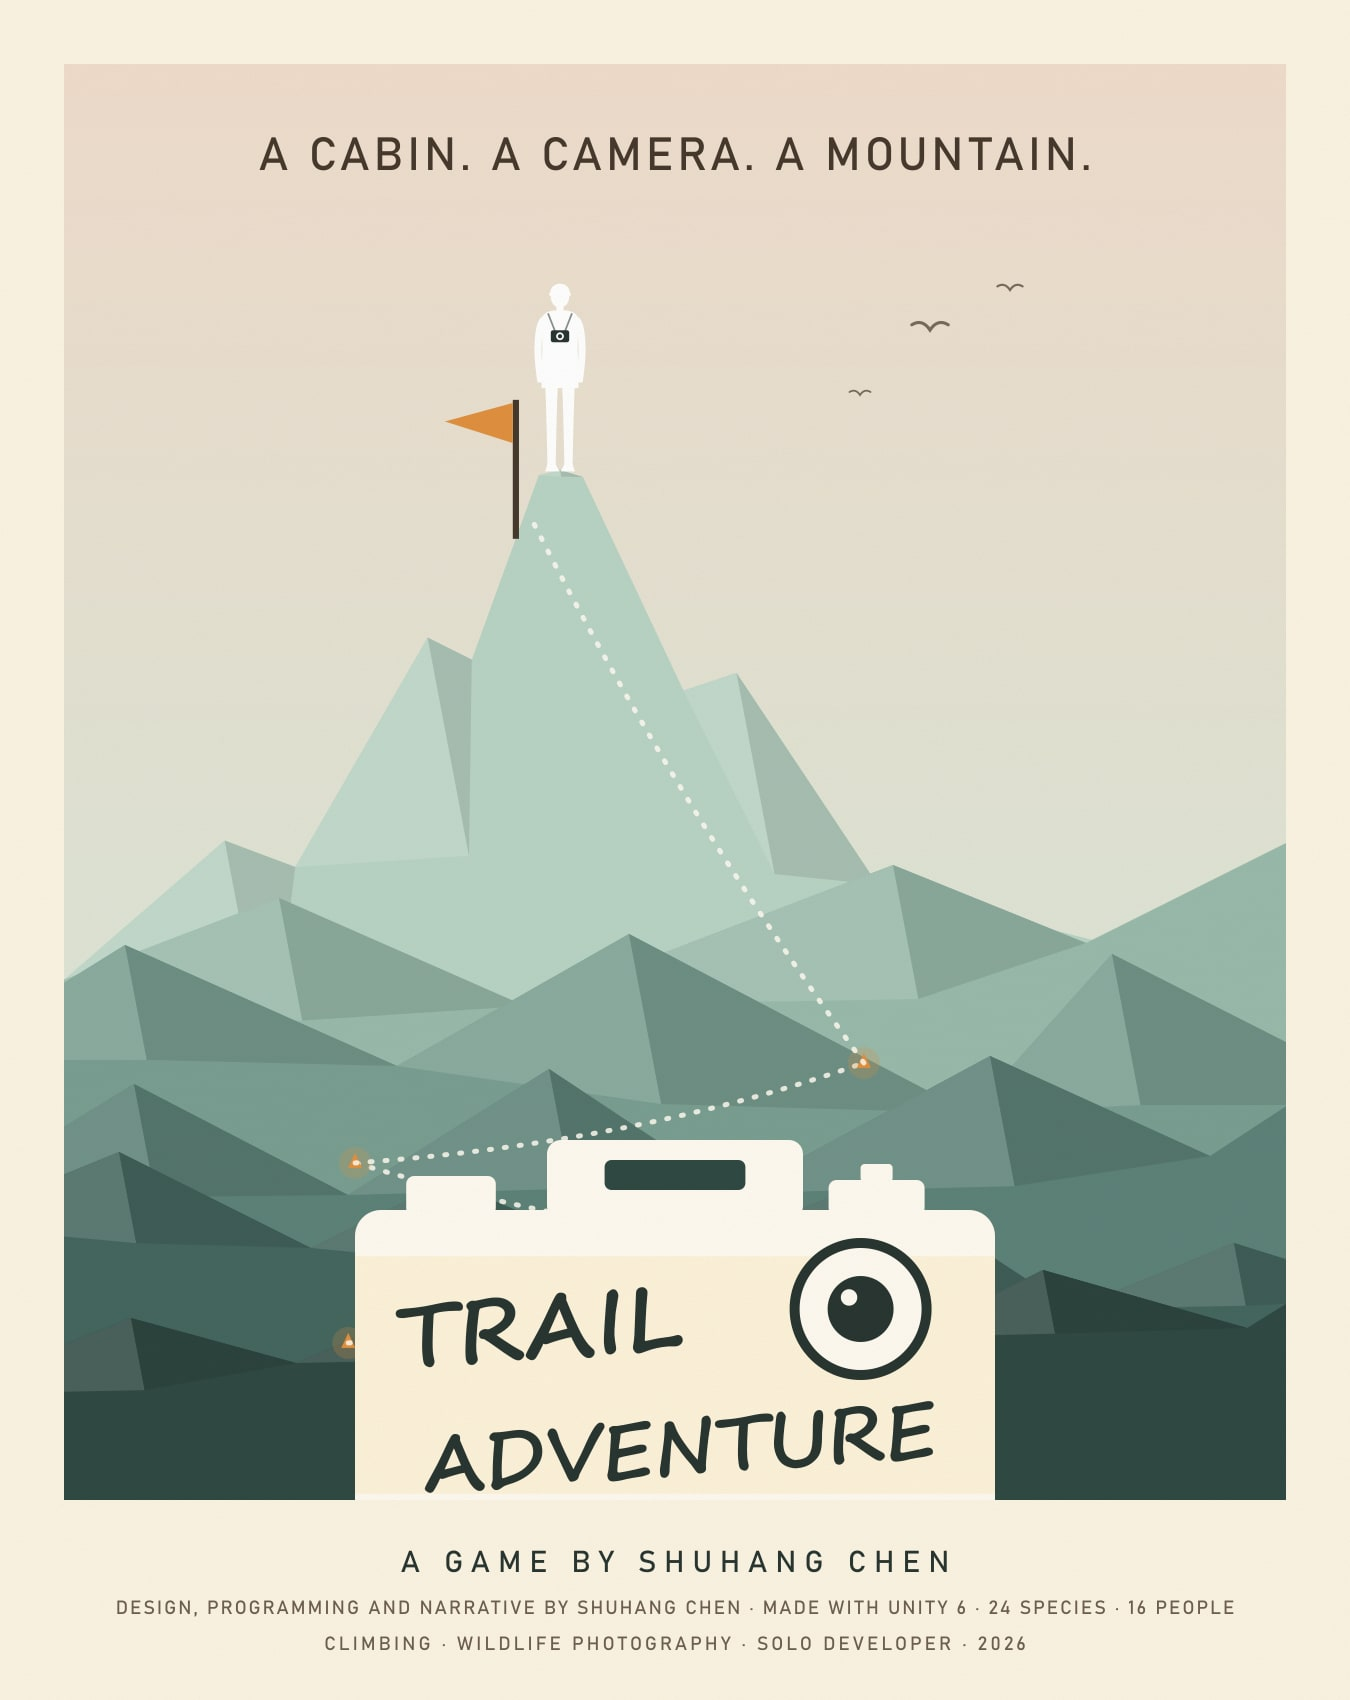
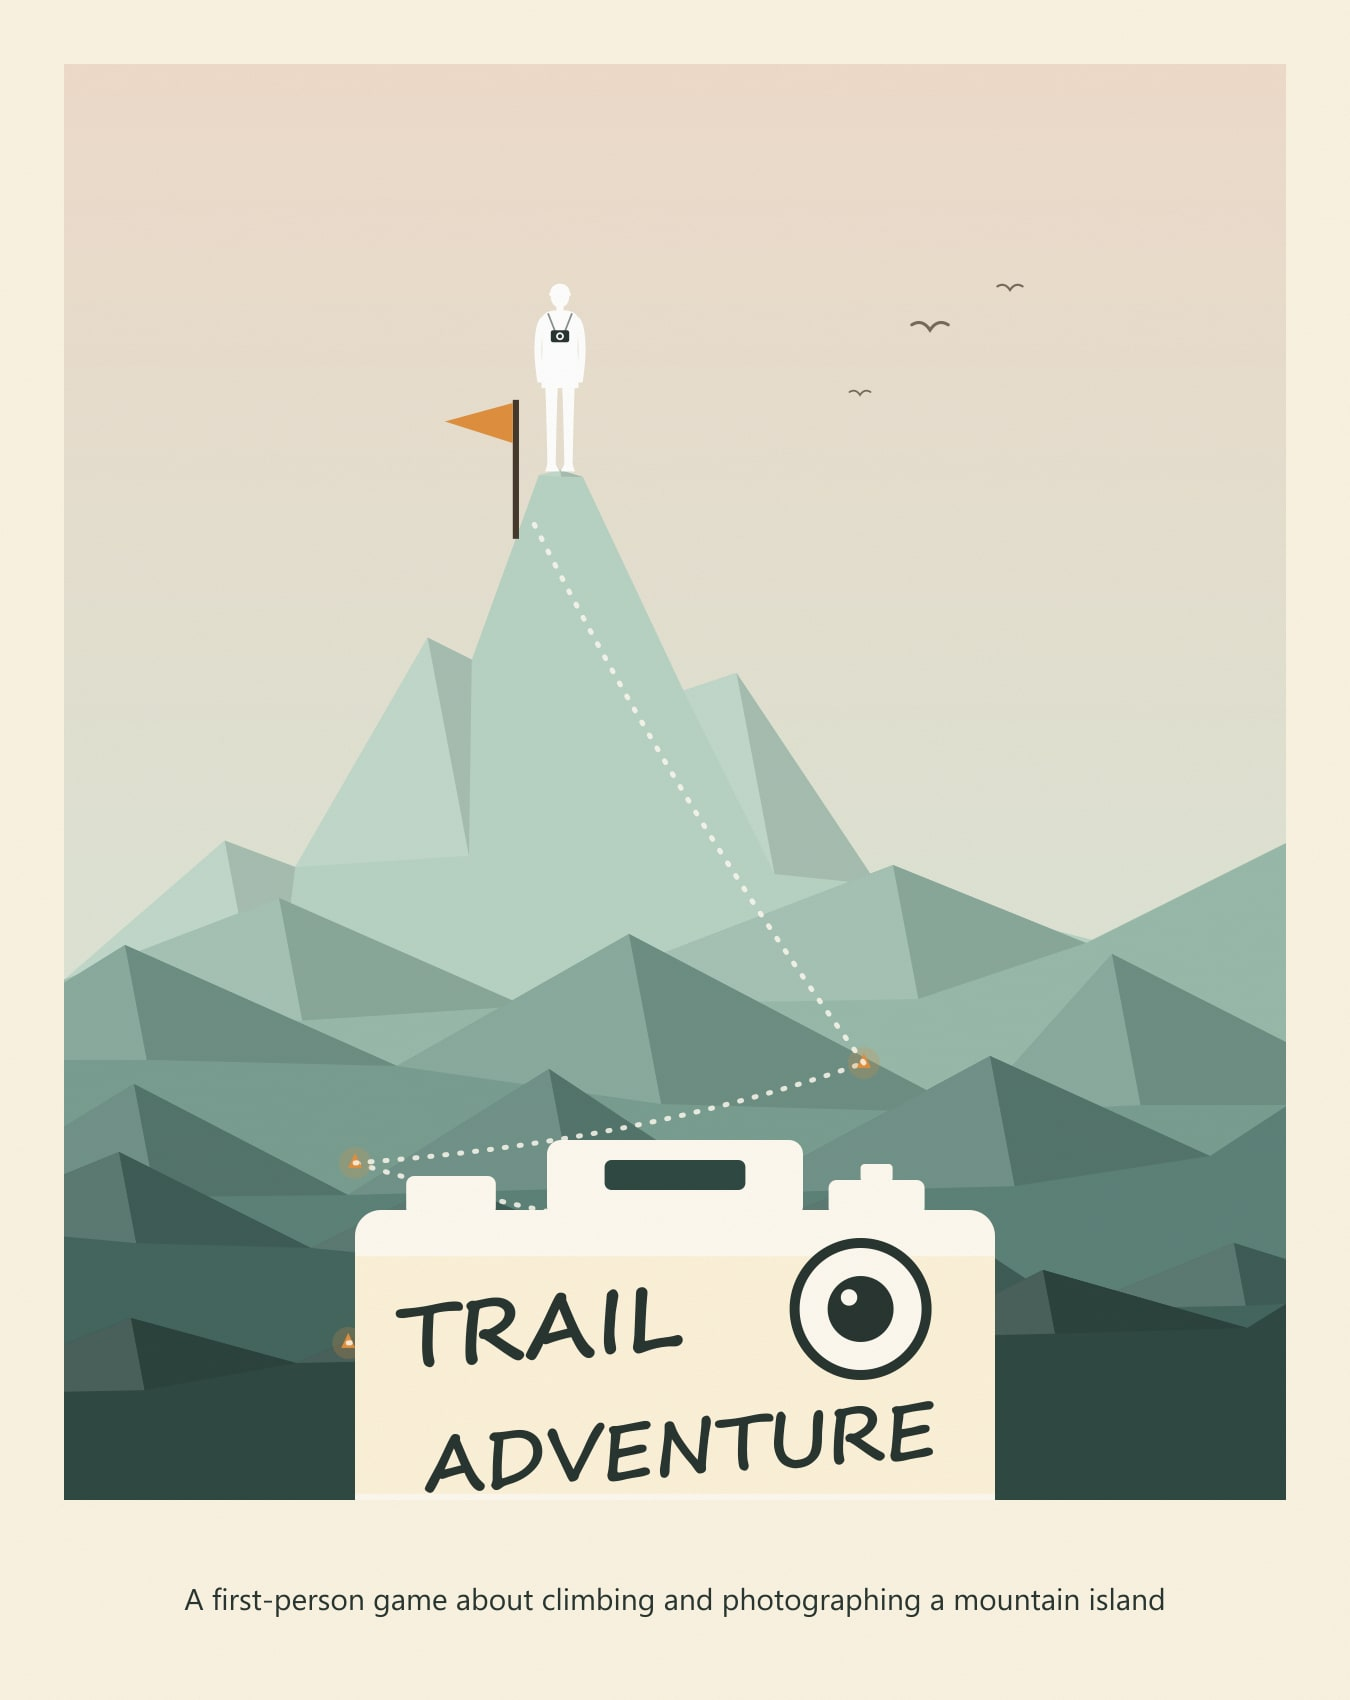
feat: posters keep their pictures and lose the billing; loaders lose their captions
The four posters drop the taglines, verb triplets, "A GAME BY" billing and engine
footers. Each cover keeps the title and one plain line, each back cover a short
pitch above the screenshots, spine and disc the title and the year. The loading
screens keep their animation (pan, viewfinder, order slips, searchlight) and
draw no text apart from the countdown clocks.

diff --git a/src/game-loaders.ts b/src/game-loaders.ts
@@ -72,10 +72,6 @@ const lockdown: GameLoader = (c, w, h, t) => {
     }
     c.globalAlpha = 1;
   }
-  c.textAlign = "center";
-  c.font = `500 ${h * 0.032}px MiSans, sans-serif`;
-  c.fillStyle = "rgba(242,236,228,.55)";
-  c.fillText(t < 0.78 ? "Preparing today's meal…" : "STAY HOME. KEEP EVERYONE FED.", w / 2, h * 0.92);
 };
 
 // Trail Adventure: the monitor becomes Leo's camera. The live view is the key art
@@ -137,10 +133,9 @@ const trail: GameLoader = (c, w, h, t, art) => {
   c.fillStyle = "#1f2a27";
   c.fillRect(0, 0, w, h);
   c.drawImage(view, vx, vy, w * zoom, h * zoom);
-  // Viewfinder chrome, as in the game: a dark rounded mask, corner brackets, thirds,
-  // the exposure strip and the shot counter. It clears away after the shot.
+  // Viewfinder chrome, as in the game: a dark rounded mask, corner brackets, thirds
+  // and the exposure strip. It clears away after the shot.
   const ui = 1 - ease(span(t, 0.66, 0.74));
-  const fired = t >= 0.62;
   if (ui) {
     c.globalAlpha = alpha * ui;
     const ix = w * 0.07, iy = h * 0.08, iw = w - ix * 2, ih = h * 0.8, r = h * 0.06;
@@ -174,16 +169,8 @@ const trail: GameLoader = (c, w, h, t, art) => {
       const px = fx + (sx * fs) / 2, py = fy + (sy * fs) / 2;
       c.beginPath(); c.moveTo(px, py - sy * q); c.lineTo(px, py); c.lineTo(px - sx * q, py); c.stroke();
     }
-    c.font = `500 ${h * 0.032}px MiSans, sans-serif`;
-    c.textAlign = "left";
-    c.fillStyle = locked ? TRAIL_GREEN : "rgba(255,255,255,.75)";
-    c.fillText(locked ? "●  HIKER   STILL" : "●  FOCUSING…", ix + r * 0.4, iy - h * 0.022);
     c.fillStyle = "rgba(18,26,24,.6)";
     c.fillRect(ix, iy + ih + h * 0.025, iw, h * 0.065);
-    c.fillStyle = TRAIL_GREEN;
-    c.fillText(`1/250   F5.6   ISO 200   ${Math.round(35 * zoom)}MM`, ix + h * 0.025, iy + ih + h * 0.068);
-    c.textAlign = "right";
-    c.fillText(fired ? "[ 15 ]" : "[ 16 ]", ix + iw - h * 0.025, iy + ih + h * 0.068);
     c.globalAlpha = alpha;
   }
   // Shutter: two curtains meet in the middle and part again, with a soft flash.
@@ -221,22 +208,18 @@ const trail: GameLoader = (c, w, h, t, art) => {
       }
       c.fill();
     }
-    c.textAlign = "left";
-    c.fillStyle = "#43362a";
-    c.font = `600 ${h * 0.03}px MiSans, sans-serif`;
-    c.fillText("SUMMIT  ·  GOLDEN HOUR", x + cw * 0.08, y + ch * 0.8);
     c.globalAlpha = alpha;
   }
 };
 
 // Last Mile: the monitor becomes the station's dispatch board, printed in the cover's
 // three inks. Order slips come in with their countdowns running, the rider runs the track
-// along the bottom as the progress bar, and each order is stamped as they pass its stop.
-// With the last one in, ON TIME goes across the board; then the view pulls back from the
-// rider on the key art (public/works/x-004/hero.jpg) to the whole frame. Shapes follow
-// art/lastmile_poster.mjs.
+// along the bottom as the progress bar, and each order's countdown stops as they pass its stop.
+// With the last one in, the view pulls back from the rider on the key art
+// (public/works/x-004/hero.jpg) to the whole frame. Shapes follow art/lastmile_poster.mjs.
 const LM_PAPER = "#ede6d6", LM_CARD = "#f6f1e6", LM_INK = "#272c30", LM_AMBER = "#f1b05f";
-const LM_ORDERS: [string, number][] = [["BREAKFAST", 46], ["MILK", 31], ["SNACKS", 58], ["NOODLES", 22], ["COFFEE", 40], ["MEDS", 24]];
+// Each order's countdown, in seconds.
+const LM_ORDERS: number[] = [46, 31, 58, 22, 40, 24];
 // Where the rider stands in the key art (hero(): machine(860, -110, 0.82), rider at 420, 574).
 const LM_RIDER_ART: [number, number] = [(860 + 420 * 0.82) / 1920, (-110 + 574 * 0.82 - 130) / 1080];
 // The cover's running rider, ~270 units tall, feet at the origin, facing right.
@@ -303,17 +286,11 @@ const lastmile: GameLoader = (c, w, h, t, art) => {
   // The rider's run is the progress bar; each stop on the track is one order.
   const run = span(t, 0.08, 0.6), stops = LM_ORDERS.length + 1;
   const tx0 = w * 0.08, tx1 = w * 0.92, ty = h * 0.86;
-  const delivered = LM_ORDERS.filter((_, i) => run >= (i + 1) / stops).length;
-  c.font = `600 ${h * 0.03}px MiSans, sans-serif`;
   c.fillStyle = LM_INK;
-  c.textAlign = "left";
-  c.fillText("DAY 01  ·  06:00", w * 0.08, h * 0.1);
-  c.textAlign = "right";
-  c.fillText(`DELIVERED  ${delivered} / ${LM_ORDERS.length}`, w * 0.92, h * 0.1);
   c.fillRect(w * 0.08, h * 0.125, w * 0.84, 3);
-  // Order slips: in they come, countdowns running, stamped as the rider passes their stop.
+  // Order slips: in they come, countdowns running until the rider passes their stop.
   const cw = w * 0.25, ch = h * 0.2, gx = (w * 0.84 - cw * 3) / 2;
-  LM_ORDERS.forEach(([name, secs], i) => {
+  LM_ORDERS.forEach((secs, i) => {
     const appear = ease(span(t, i * 0.03, 0.06 + i * 0.03));
     if (!appear) return;
     const x = w * 0.08 + (i % 3) * (cw + gx), y = h * 0.19 + Math.floor(i / 3) * (ch + h * 0.06) + (1 - appear) * 24;
@@ -330,10 +307,6 @@ const lastmile: GameLoader = (c, w, h, t, art) => {
     c.setLineDash([10, 8]);
     c.beginPath(); c.moveTo(x + ch * 0.14, ny); c.lineTo(x + cw - ch * 0.14, ny); c.stroke();
     c.setLineDash([]);
-    c.fillStyle = LM_INK;
-    c.textAlign = "left";
-    c.font = `700 ${h * 0.036}px MiSans, sans-serif`;
-    c.fillText(name, x + cw * 0.07, y + ch * 0.4);
     const done = run >= (i + 1) / stops;
     if (!done) {
       // The countdown keeps running until the order is in.
@@ -345,21 +318,6 @@ const lastmile: GameLoader = (c, w, h, t, art) => {
       c.textAlign = "center";
       c.font = `700 ${ph * 0.6}px MiSans, sans-serif`;
       c.fillText(`${Math.floor(left / 60)}:${String(left % 60).padStart(2, "0")}`, px + pw / 2, py + ph * 0.72);
-    } else {
-      const k = ease(span(run, (i + 1) / stops, (i + 1) / stops + 0.05));
-      c.save();
-      c.translate(x + cw * 0.79, y + ch * 0.3);
-      c.rotate(-0.14);
-      c.scale(1 + (1 - k) * 0.6, 1 + (1 - k) * 0.6);
-      c.globalAlpha = alpha * ui * appear * k;
-      c.strokeStyle = LM_INK;
-      c.lineWidth = 3;
-      c.strokeRect(-cw * 0.16, -ch * 0.13, cw * 0.32, ch * 0.26);
-      c.fillStyle = LM_INK;
-      c.textAlign = "center";
-      c.font = `700 ${ch * 0.12}px MiSans, sans-serif`;
-      c.fillText("DELIVERED", 0, ch * 0.045);
-      c.restore();
     }
     c.globalAlpha = alpha * ui;
   });
@@ -379,25 +337,6 @@ const lastmile: GameLoader = (c, w, h, t, art) => {
     c.beginPath(); c.moveTo(rx - h * (0.16 - i * 0.03), ty - h * (0.1 - i * 0.025)); c.lineTo(rx - h * 0.06, ty - h * (0.1 - i * 0.025)); c.stroke();
   });
   lmRider(c, rx, ty - 2 - bob, h * 0.00052);
-  // Every order in: ON TIME goes across the board.
-  const stamp = ease(span(t, 0.6, 0.66));
-  if (stamp) {
-    c.save();
-    c.translate(w / 2, h * 0.43);
-    c.rotate(-0.12);
-    c.scale(1 + (1 - stamp) * 0.5, 1 + (1 - stamp) * 0.5);
-    c.globalAlpha = alpha * ui * stamp;
-    c.fillStyle = LM_AMBER;
-    c.fillRect(-w * 0.2, -h * 0.08, w * 0.4, h * 0.16);
-    c.strokeStyle = LM_PAPER;
-    c.lineWidth = 5;
-    c.strokeRect(-w * 0.19, -h * 0.065, w * 0.38, h * 0.13);
-    c.fillStyle = LM_PAPER;
-    c.textAlign = "center";
-    c.font = `700 ${h * 0.09}px MiSans, sans-serif`;
-    c.fillText("ON TIME", 0, h * 0.032);
-    c.restore();
-  }
   c.globalAlpha = alpha;
 };
 
